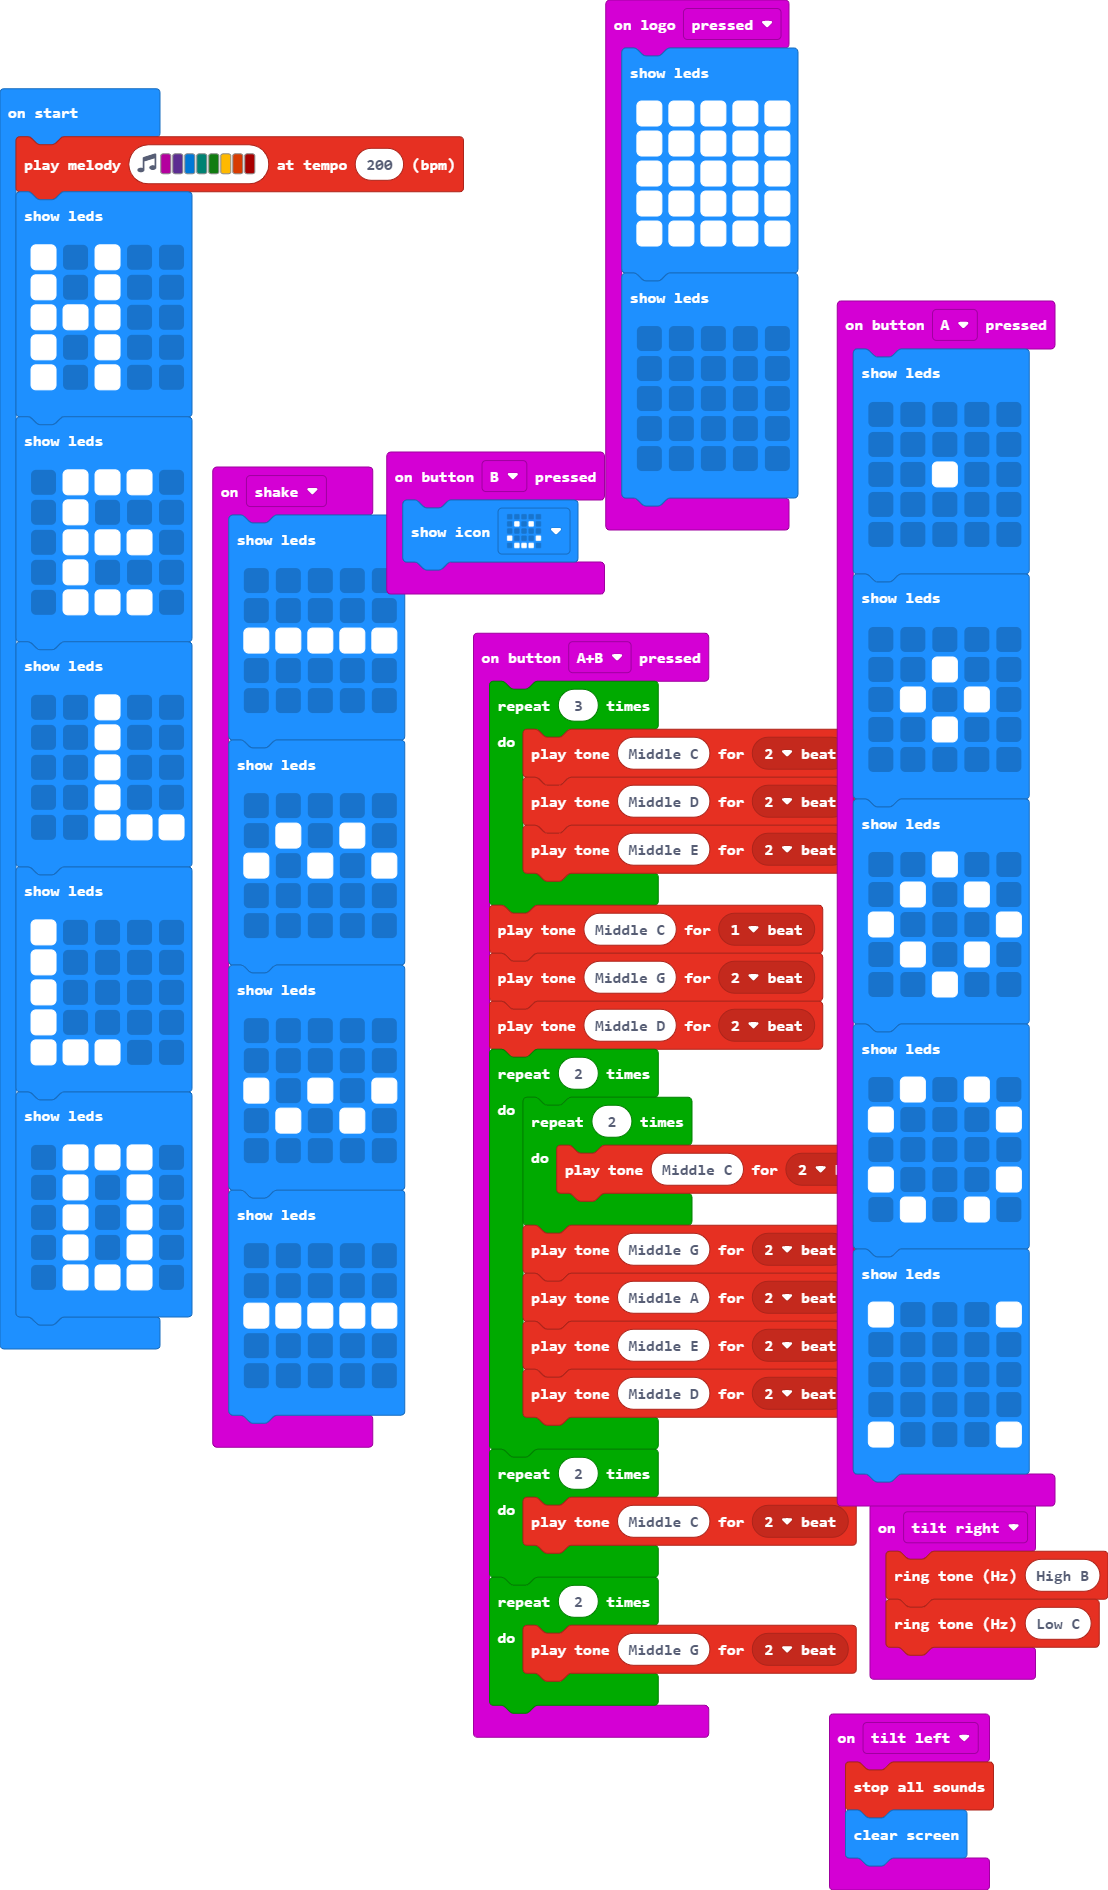
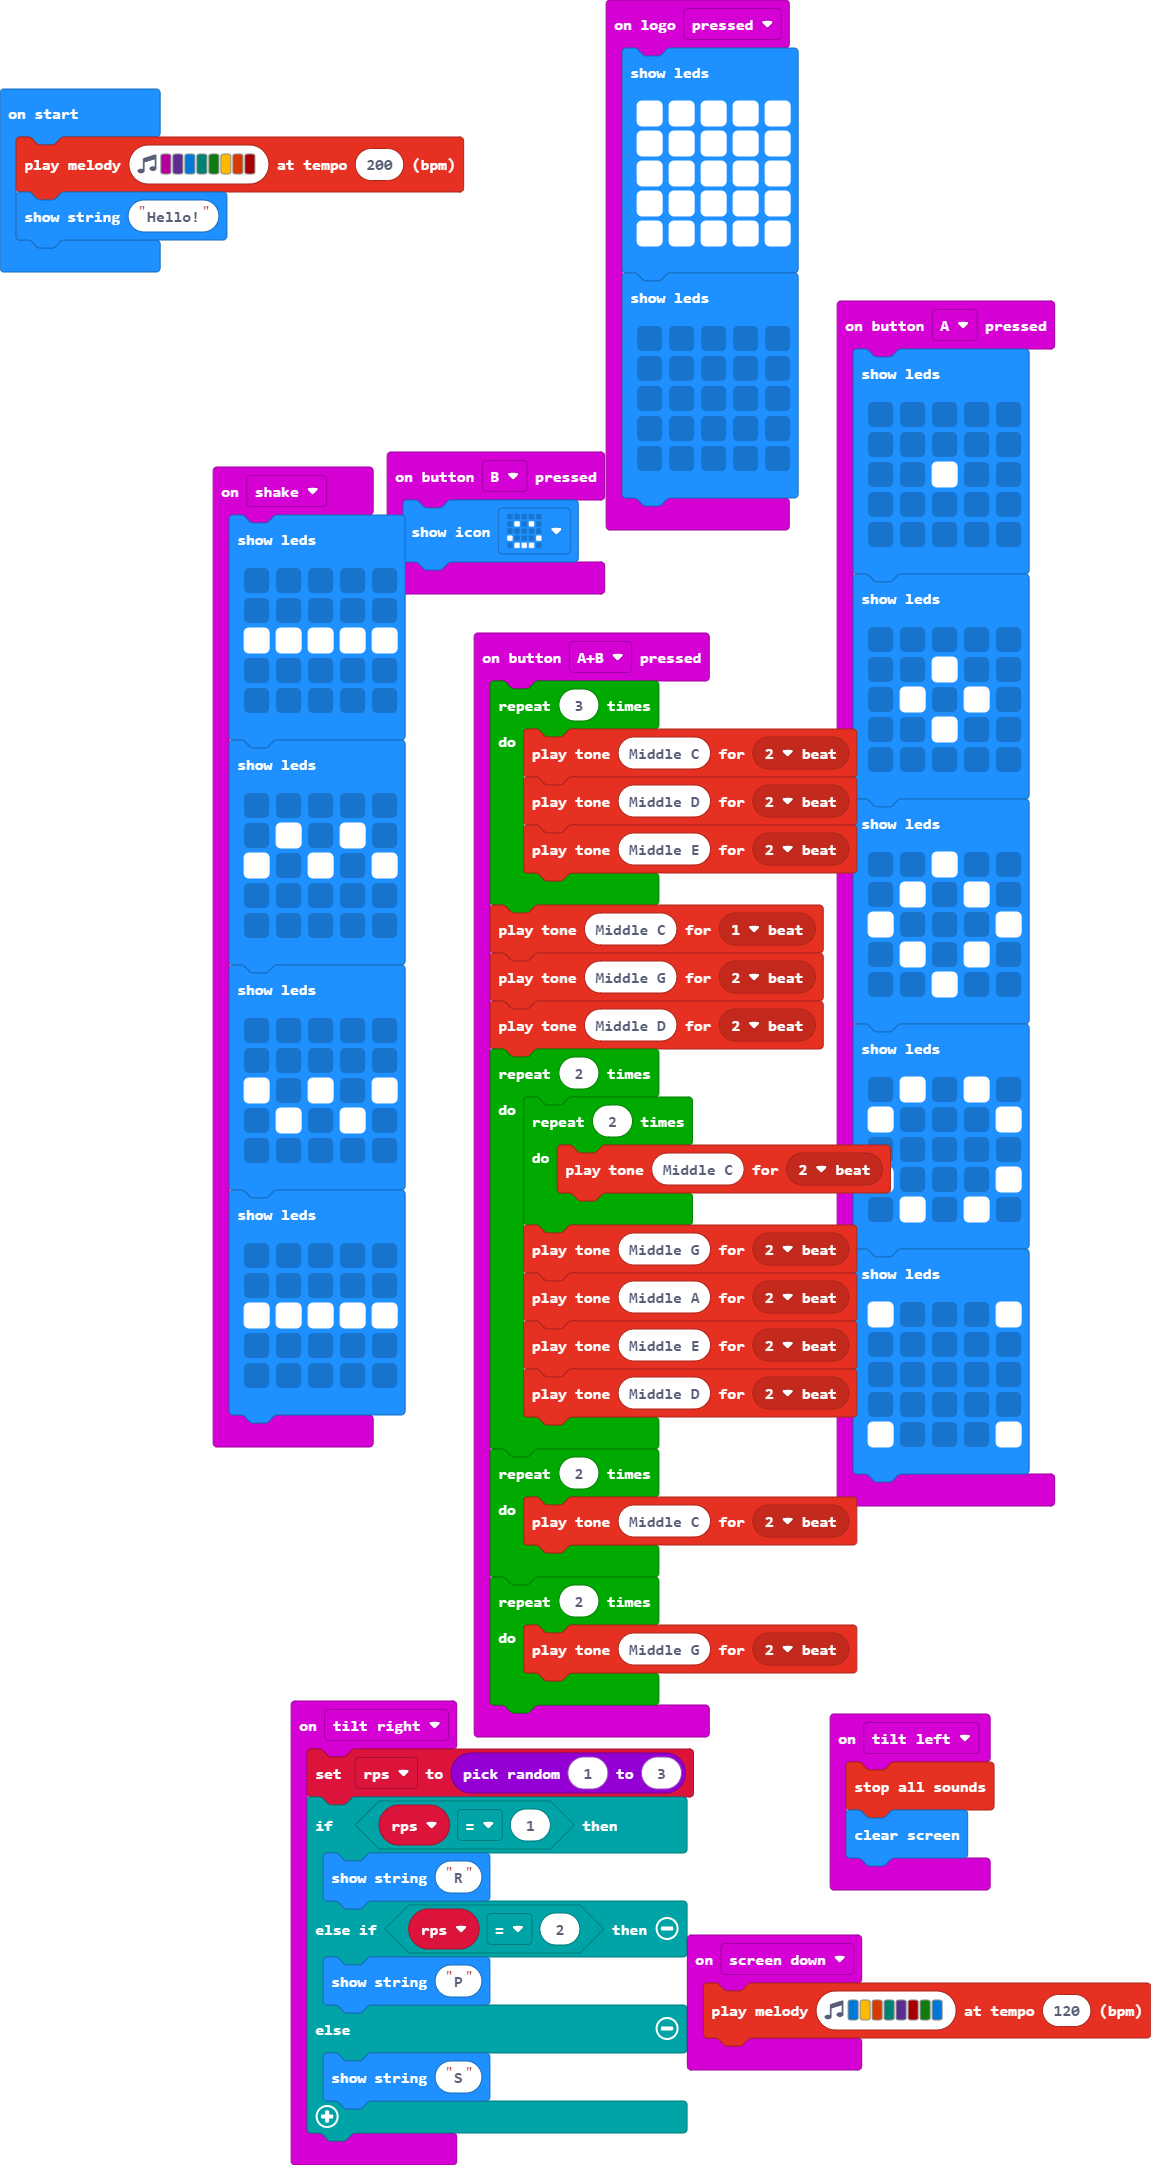
Update main.blocks, main.ts

diff --git a/main.ts b/main.ts
@@ -39,6 +39,9 @@ input.onGesture(Gesture.TiltLeft, function () {
     music.stopAllSounds()
     basic.clearScreen()
 })
+input.onGesture(Gesture.ScreenDown, function () {
+    music.playMelody("E A B F D C5 G E ", 120)
+})
 input.onButtonPressed(Button.AB, function () {
     for (let index = 0; index < 3; index++) {
         music.playTone(262, music.beat(BeatFraction.Double))
@@ -98,8 +101,14 @@ input.onGesture(Gesture.Shake, function () {
         `)
 })
 input.onGesture(Gesture.TiltRight, function () {
-    music.ringTone(988)
-    music.ringTone(131)
+    rps = randint(1, 3)
+    if (rps == 1) {
+        basic.showString("R")
+    } else if (rps == 2) {
+        basic.showString("P")
+    } else {
+        basic.showString("S")
+    }
 })
 input.onLogoEvent(TouchButtonEvent.Pressed, function () {
     basic.showLeds(`
@@ -117,39 +126,6 @@ input.onLogoEvent(TouchButtonEvent.Pressed, function () {
         . . . . .
         `)
 })
+let rps = 0
 music.playMelody("C D E F G A B C5 ", 200)
-basic.showLeds(`
-    # . # . .
-    # . # . .
-    # # # . .
-    # . # . .
-    # . # . .
-    `)
-basic.showLeds(`
-    . # # # .
-    . # . . .
-    . # # # .
-    . # . . .
-    . # # # .
-    `)
-basic.showLeds(`
-    . . # . .
-    . . # . .
-    . . # . .
-    . . # . .
-    . . # # #
-    `)
-basic.showLeds(`
-    # . . . .
-    # . . . .
-    # . . . .
-    # . . . .
-    # # # . .
-    `)
-basic.showLeds(`
-    . # # # .
-    . # . # .
-    . # . # .
-    . # . # .
-    . # # # .
-    `)
+basic.showString("Hello!")
